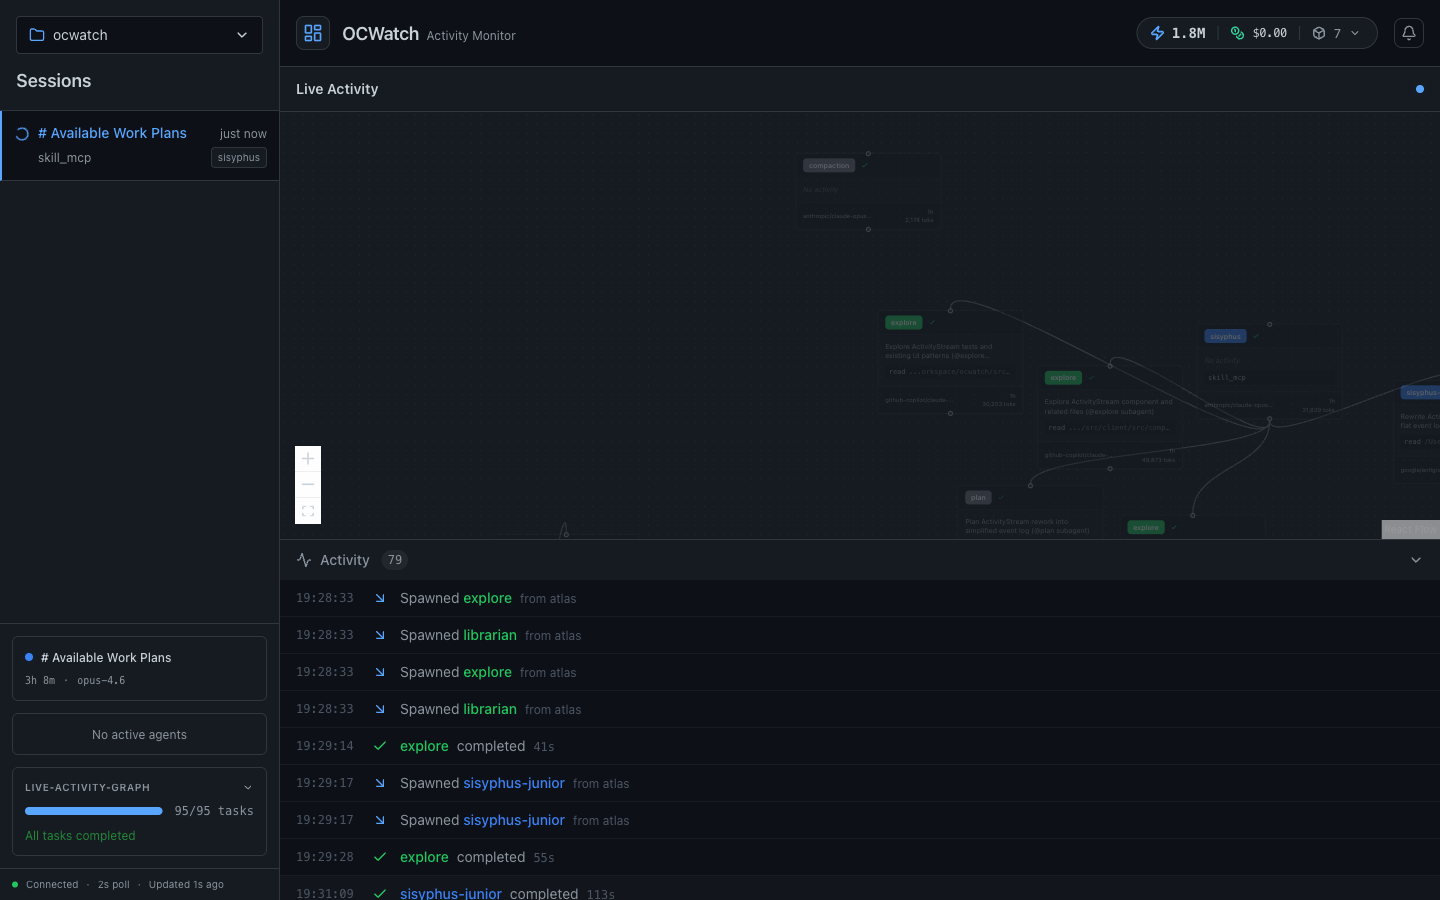
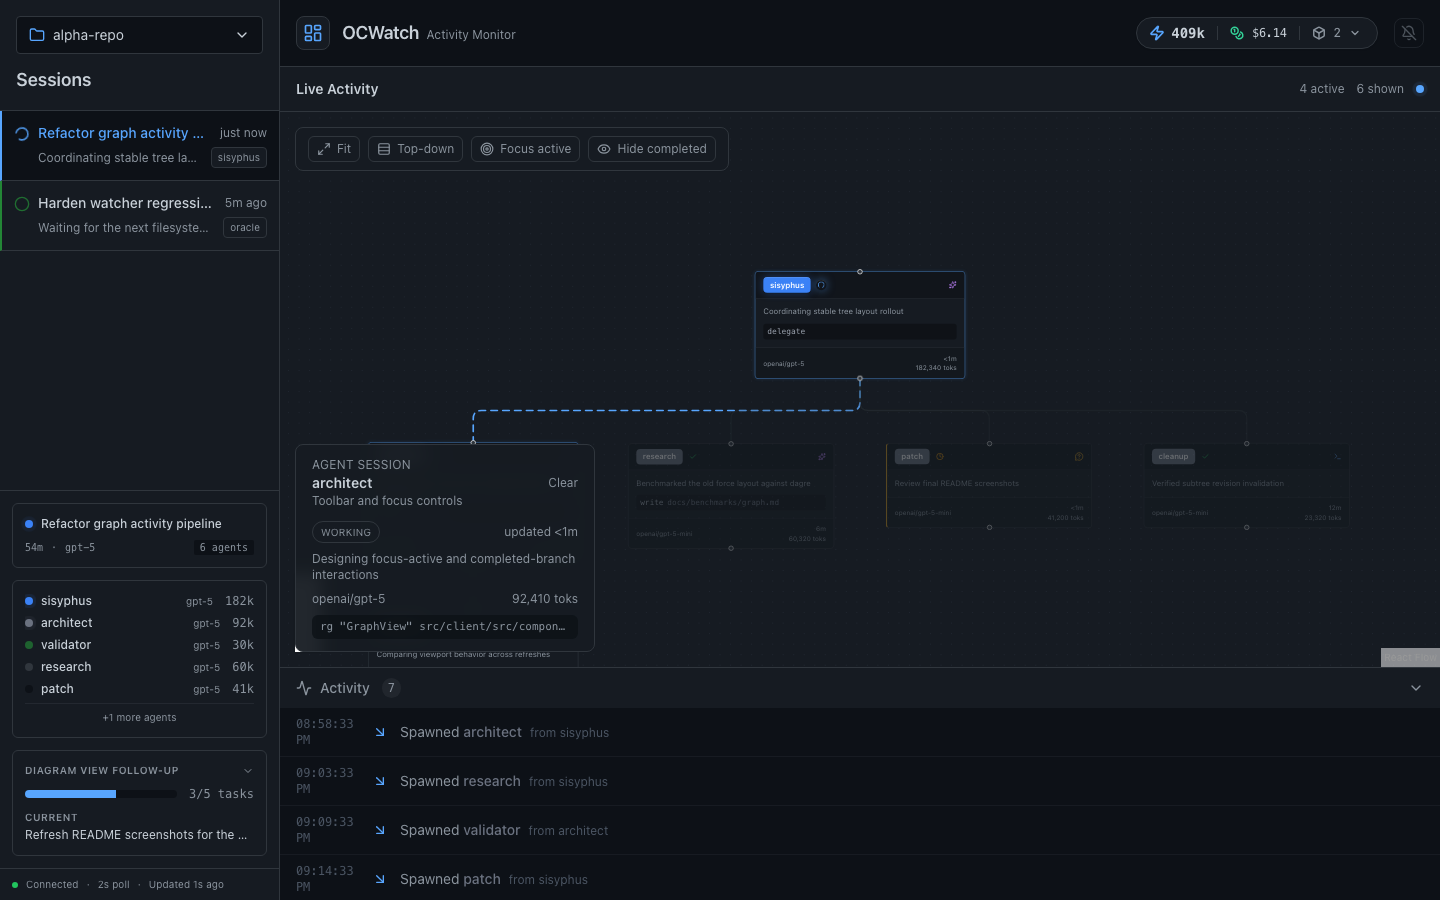
Refresh docs and screenshots for 0.6.0

diff --git a/src/client/AGENTS.md b/src/client/AGENTS.md
@@ -12,12 +12,12 @@ client/
 │   ├── App.tsx                # Layout shell: header + sidebar + main + stream
 │   ├── main.tsx               # React entrypoint (StrictMode + ErrorBoundary)
 │   ├── components/
-│   │   ├── graph/             # Force-directed graph visualization
-│   │   │   ├── GraphView.tsx  # Main container: ReactFlow + force layout + loading/empty states
+│   │   ├── graph/             # Stable activity tree visualization
+│   │   │   ├── GraphView.tsx  # Main container: ReactFlow tree, toolbar, focus inspector, loading/empty states
+│   │   │   ├── graphModel.ts  # Pure graph model + deterministic layout builder
 │   │   │   ├── AgentNode.tsx  # Custom node card: agent badge, status, tools, tokens, timestamps
-│   │   │   ├── AnimatedEdge.tsx # Animated bezier edges with SVG particles for active connections
-│   │   │   ├── useForceLayout.ts # d3-force simulation with RAF ticking, drag, reheat
-│   │   │   ├── collide.ts    # Rectangular collision detection force for d3-force
+│   │   │   ├── AnimatedEdge.tsx # Lightweight smooth-step edges with status styling
+│   │   │   ├── types.ts      # Graph-specific node/edge/layout types
 │   │   │   └── index.ts      # Barrel exports
 │   │   ├── ActivityStream.tsx # Bottom panel: flat event log of spawns + completions
 │   │   ├── SessionList.tsx    # Sidebar: project dropdown + session list (198 lines)
@@ -36,10 +36,13 @@ client/
 │   ├── hooks/
 │   │   ├── useSSE.ts              # SSE → polling fallback, liveness check (45s), debounce (100ms)
 │   │   ├── usePolling.ts          # ETag polling, 2s interval, exponential backoff (max 10s)
+│   │   ├── useSelectedActivityGraph.ts # Selected-session graph fetch with ETag + scope aborts
 │   │   ├── useNotifications.ts    # Desktop notifications on waiting-user, 10s cooldown
 │   │   └── useKeyboardShortcuts.ts # j/k/arrows navigate sessions, Escape deselects
 │   ├── store/
-│   │   └── AppContext.tsx     # Global state: sessions, plan, projects, UI, connection status
+│   │   ├── AppContext.tsx     # Provider composition only
+│   │   ├── UIStateContext.tsx # Selected project/session and URL sync
+│   │   └── PollDataContext.tsx # Poll/SSE data, connection state, selected graph data
 │   ├── utils/
 │   │   ├── agentColors.ts     # Agent → color mapping (sisyphus=blue, oracle=amber, explore=green...)
 │   │   └── formatters.ts      # Token formatting (5.2K), cost formatting ($0.45)
@@ -55,12 +58,14 @@ client/
 
 | Task | Location | Notes |
 |------|----------|-------|
-| Add component | `src/components/` | `.tsx`, Tailwind classes, use `useAppContext()` for state |
-| Add global state | `src/store/AppContext.tsx` | Add to `AppContextValue` interface + `useMemo` |
+| Add component | `src/components/` | `.tsx`, Tailwind classes, read state from `useUIState()` / `usePollData()` |
+| Add global state | `src/store/UIStateContext.tsx` / `src/store/PollDataContext.tsx` | Keep UI selection separate from fetched server data |
 | Modify polling | `src/hooks/useSSE.ts` | SSE primary, polling fallback. Scope key = `sessionId|projectId` |
+| Modify selected graph refresh | `src/hooks/useSelectedActivityGraph.ts` | Fetches `/api/sessions/:id/activity`, handles ETag 304 + scope aborts |
+| Modify diagram layout | `src/components/graph/graphModel.ts` | Structure/content split, deterministic layout, focus/collapse rules |
 | Agent colors | `src/utils/agentColors.ts` | Keyed by agent name prefix (case-insensitive) |
 | Add animation | `src/styles/animations.css` | Custom keyframes, referenced via Tailwind `animate-*` |
-| Sidebar widget | `src/components/sidebar/` | Small components consuming `useAppContext()` |
+| Sidebar widget | `src/components/sidebar/` | Small components consuming `useUIState()` / `usePollData()` |
 
 ## TESTING
 
@@ -79,15 +84,20 @@ AppProvider mounts
     → on SSE event: 100ms debounce → fetch /api/poll
     → on SSE failure: fallback to usePolling (2s interval)
     → ETag 304 skips JSON parsing
-  → PollResponse → AppContext state
-  → Components read via useAppContext()
+  → PollResponse → PollDataContext state
+  → selecting a session starts useSelectedActivityGraph
+    → fetch /api/sessions/:id/activity
+    → ETag 304 preserves current graph state
+  → Components read via useUIState() and usePollData()
 ```
 
 ## KEY PATTERNS
 
 **Scope resets**: Changing project clears `selectedSessionId`, messages, and activitySessions. Scope key (`sessionId|projectId`) change resets ETag + aborts in-flight requests.
 
-**Memoization**: `AgentNode` memos StatusIndicator, ActivityTypeIndicator. `ActivityStream` memos filtered entries, agent list. Prevents cascade re-renders on 2s poll updates.
+**Graph rendering**: The diagram is a stable monitoring-first tree. Layout recomputes on topology, collapse state, or direction changes, not on every status/timestamp update.
+
+**Memoization**: `graphModel.ts` separates structure from content so status-only refreshes do not rebuild layout unnecessarily. `ActivityStream` memos filtered entries and agent lists to avoid cascade re-renders on 2s poll updates.
 
 **URL sync**: `selectedProjectId` persists to `?project=` query param. Survives page reload. Priority: URL param → server default → first project.
 
@@ -116,4 +126,4 @@ Single dark theme (GitHub-inspired). **No light mode, no customization.**
 - No CSS-in-JS — Tailwind only
 - No light theme — single dark theme
 - No component library (MUI, etc.) — custom components only
-- No dagre/tree layout — force-directed graph via `@xyflow/react` + `d3-force`
+- No free-form graph editing — the diagram is a stable operational tree, not a whiteboard

diff --git a/AGENTS.md b/AGENTS.md
@@ -26,8 +26,8 @@ ocwatch/
 │   ├── client/              # React + Vite SPA (see src/client/AGENTS.md)
 │   │   ├── src/
 │   │   │   ├── components/  # 14 components + 5 sidebar widgets
-│   │   │   ├── hooks/       # useSSE, usePolling, useNotifications, useKeyboardShortcuts
-│   │   │   ├── store/       # AppContext (React Context API)
+│   │   │   ├── hooks/       # useSSE, useSelectedActivityGraph, useNotifications, useKeyboardShortcuts
+│   │   │   ├── store/       # AppProvider + UIStateContext + PollDataContext
 │   │   │   ├── utils/       # agentColors, formatters
 │   │   │   └── styles/      # Tailwind CSS + custom animations
 │   │   └── e2e/             # Playwright specs (`*.pw.ts`)
@@ -46,7 +46,7 @@ ocwatch/
 |------|----------|-------|
 | Add API endpoint | `src/server/routes/` | Create file, register in `routes/index.ts` |
 | New UI component | `src/client/src/components/` | `.tsx`, Tailwind classes, dark theme only |
-| Track new state | `src/client/src/store/AppContext.tsx` | Add to `AppContextValue` interface |
+| Track new client state | `src/client/src/store/UIStateContext.tsx` / `src/client/src/store/PollDataContext.tsx` | UI selection lives in `UIStateContext`; fetched server data lives in `PollDataContext` |
 | New storage source | `src/server/storage/` | New parser → wire into `pollService.fetchPollData()` |
 | Add shared type | `src/shared/types/index.ts` | Types only — no logic in this file |
 | Session status logic | `src/server/utils/sessionStatus.ts` | Time-based thresholds (30s/5min) |
@@ -66,9 +66,9 @@ ocwatch/
 | `Watcher` | class | server/watcher.ts | EventEmitter wrapping `fs.watch` on 5 dirs |
 | `parsePart` | fn | server/storage/partParser.ts | Parses tool call JSON → `PartMeta` |
 | `getSessionActivityState` | fn | server/storage/partParser.ts | Derives pending/completed/reasoning state |
-| `AppProvider` | component | client/src/store/AppContext.tsx | Global state (sessions, plan, projects, UI) |
+| `AppProvider` | component | client/src/store/AppContext.tsx | Composes `UIStateProvider` + `PollDataProvider` |
 | `useSSE` | hook | client/src/hooks/useSSE.ts | SSE → polling fallback, ETag 304, reconnect backoff |
-| `LiveActivity` | component | client/src/components/LiveActivity.tsx | Main panel: real-time session tree |
+| `GraphView` | component | client/src/components/graph/GraphView.tsx | Main panel: stable activity tree with focus controls |
 | `ActivityStream` | component | client/src/components/ActivityStream.tsx | Bottom panel: burst/milestone timeline |
 | `SessionList` | component | client/src/components/SessionList.tsx | Sidebar: project dropdown + session list |
 | `synthesizeActivityItems` | fn | shared/utils/activityUtils.ts | Sessions → ActivityItems (spawns+tools+completions) |
@@ -162,6 +162,7 @@ cd src/client && bun run lint
 | `/api/health` | GET | Health check + `defaultProjectId` |
 | `/api/sessions` | GET | Recent root sessions (max 20) |
 | `/api/sessions/:id` | GET | Session details |
+| `/api/sessions/:id/activity` | GET | Live activity graph payload (`session`, `activity`, `stats`, `revision`, ETag cached) |
 | `/api/sessions/:id/messages` | GET | Messages (last 100, desc) |
 | `/api/sessions/:id/tree` | GET | Agent tree (React Flow format) |
 | `/api/parts/:id` | GET | Single part (lazy load) |

diff --git a/README.md b/README.md
@@ -19,9 +19,9 @@ Opens a dashboard at `http://localhost:50234` showing live agent sessions, tool 
 
 ## Preview
 
-![Dashboard overview](docs/screenshots/dashboard-overview.png)
+![Dashboard overview with the stable activity tree](docs/screenshots/dashboard-overview.png)
 
-![Activity stream](docs/screenshots/dashboard-activity.png)
+![Focused activity tree with the expanded activity stream](docs/screenshots/dashboard-activity.png)
 
 ## Options
 
@@ -35,7 +35,7 @@ Opens a dashboard at `http://localhost:50234` showing live agent sessions, tool 
 ## What it monitors
 
 - **Sessions** — active and recent agent sessions
-- **Agent hierarchy** — parent/child agent tree (background agents, specialized agents)
+- **Diagram view** — stable parent/child activity tree with focus controls and agent inspector
 - **Tool calls** — live tool invocations with metadata (LSP, AST, MCPs)
 - **Plan progress** — task completion from `.sisyphus/boulder.json`
 - **Activity stream** — real-time feed of agent actions
